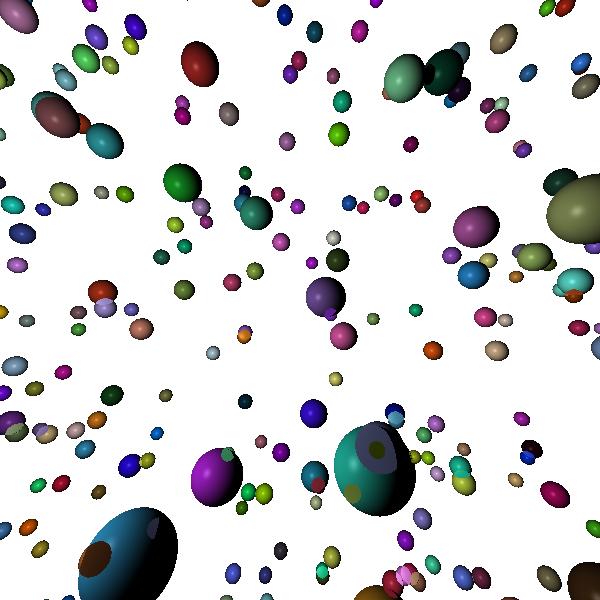
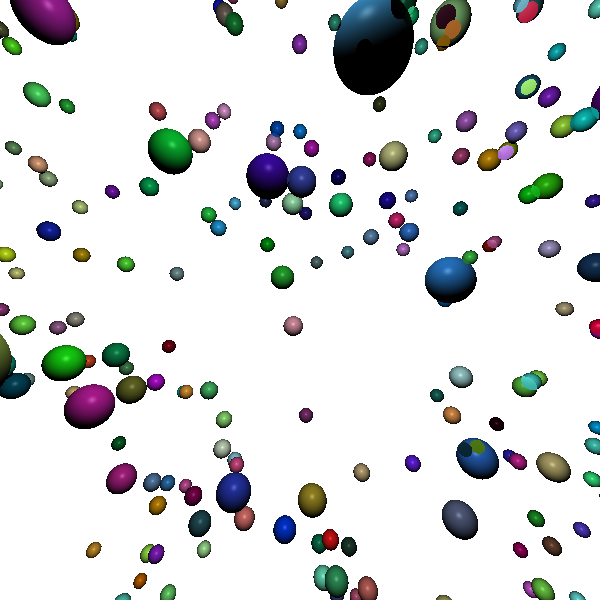
SAH done

diff --git a/AdvancedTechnologiesProject2/Src/BoundingVolumeHierachy.cpp b/AdvancedTechnologiesProject2/Src/BoundingVolumeHierachy.cpp
@@ -2,6 +2,7 @@
 
 #include <algorithm>
 #include <stack>
+#include <iostream>
 
 #include "BVHNode.h"
 #include "Geometry.h"
@@ -9,6 +10,7 @@
 
 void BVH::buildBVH(std::vector<std::shared_ptr<Geometry>> shapes)
 {
+	auto start = std::chrono::steady_clock::now();
 	m_shapes = shapes;
 
 	m_rootNode = std::make_shared<BVHNode>();
@@ -30,11 +32,17 @@ void BVH::buildBVH(std::vector<std::shared_ptr<Geometry>> shapes)
 	m_rootNode->setBounds(worldBox);
 	m_rootNode->createNode(0, m_shapes.size());
 	buildRecursiveBVH(0, m_shapes.size(), m_rootNode, 0, axis);
+
+	auto end = std::chrono::steady_clock::now();
+
+	std::chrono::duration<float> time = end - start;
+
+	std::cout << "Time to build BVH: " << time.count() << std::endl;
 }
 
 void BVH::buildRecursiveBVH(int leftIndex, int rightIndex, std::shared_ptr<BVHNode> node, int depth, Axis& axis)
 {
-	if ((rightIndex - leftIndex) <= 4 || depth >= 5)
+	if ((rightIndex - leftIndex) <= 4)
 	{
 		node->createLeaf(leftIndex, rightIndex);
 	}
@@ -101,8 +109,8 @@ void BVH::buildRecursiveBVH(int leftIndex, int rightIndex, std::shared_ptr<BVHNo
 		rightNode->setBounds(AABB(min, max));
 		rightNode->createNode(splitIndex, rightIndex);
 
-		m_rootNode->setLeft(leftNode);
-		m_rootNode->setRight(rightNode);
+		node->setLeft(leftNode);
+		node->setRight(rightNode);
 
 
 
@@ -113,6 +121,135 @@ void BVH::buildRecursiveBVH(int leftIndex, int rightIndex, std::shared_ptr<BVHNo
 
 void BVH::buildSAH(std::vector<std::shared_ptr<Geometry>> shapes)
 {
+	auto start = std::chrono::steady_clock::now();
+
+	m_shapes = shapes;
+	m_rootNode = std::make_shared<BVHNode>();
+
+	glm::vec3 min(0);
+	glm::vec3 max(0);
+
+	Axis axis = Axis::X;
+	ComparePrimitives cmp(static_cast<Axis>(axis));
+	std::sort(m_shapes.begin(), m_shapes.end(), cmp);
+
+	for (auto& obj : shapes)
+	{
+		min = glm::min(obj->getBox().getMin(), min);
+		max = glm::max(obj->getBox().getMax(), max);
+	}
+
+	AABB worldBox(min, max);
+	m_rootNode->setBounds(worldBox);
+	m_rootNode->createNode(0, m_shapes.size());
+	buildRecursiveSAH(0, m_shapes.size(), m_rootNode, 0, axis);
+
+
+	auto end = std::chrono::steady_clock::now();
+
+	std::chrono::duration<float> time = end - start;
+
+	std::cout << "Time to build SAH: " << time.count() << std::endl;
+}
+
+void BVH::buildRecursiveSAH(int leftIndex, int rightIndex, std::shared_ptr<BVHNode> node, int depth, Axis& axis)
+{
+	if ((rightIndex - leftIndex) <= 4)
+	{
+		node->createLeaf(leftIndex, rightIndex);
+	}
+	else
+	{
+		float pSA = node->getBounds().getSurfaceArea();
+		float pCI = node->getNumberOfObjects() * pSA * 1.0f;
+
+		float ci;
+
+		int splitIndex = 0;
+
+		auto leftNode = std::make_shared<BVHNode>();
+		AABB leftBounds;
+		auto rightNode = std::make_shared<BVHNode>();
+		AABB rightBounds;
+
+		Axis axis = Axis::X;
+
+		float cost = 0.0f;
+
+		do
+		{
+			int rNumberOfObj = 0;
+			int lNumberOfObj = 0;
+
+			glm::vec3 lmin;
+			glm::vec3 lmax;
+			glm::vec3 rmin;
+			glm::vec3 rmax;
+
+			ComparePrimitives cmp(static_cast<Axis>(axis));
+
+			std::sort(m_shapes.begin() + leftIndex, m_shapes.begin() + splitIndex, cmp);
+			for (int i = leftIndex; i < splitIndex; i++)
+			{
+				lmin = glm::min(m_shapes[i]->getBox().getMin(), lmin);
+				lmax = glm::max(m_shapes[i]->getBox().getMax(), lmax);
+				lNumberOfObj++;
+			}
+
+			std::sort(m_shapes.begin() + splitIndex, m_shapes.begin() + rightIndex, cmp);
+			for (int i = splitIndex; i < rightIndex; i++)
+			{
+				rmin = glm::min(m_shapes[splitIndex + i]->getBox().getMin(), lmin);
+				rmax = glm::max(m_shapes[splitIndex + i]->getBox().getMax(), lmax);
+				rNumberOfObj++;
+			}
+
+			AABB leftBox(lmin, lmax);
+			AABB rightBox(rmin, rmax);
+
+			cost = calculateCost(1.0f, 2.0f, lNumberOfObj, rNumberOfObj,  
+								 leftBox.getSurfaceArea(), rightBox.getSurfaceArea(), pSA);
+			
+			if (cost > pCI)
+			{
+				leftBounds = leftBox;
+				rightBounds = rightBox;
+			}
+			else
+			{
+				splitIndex++;
+			}
+		} while (cost > pCI);
+		
+		switch (axis)
+		{
+		case Axis::X:
+			axis = Axis::Y;
+			break;
+		case Axis::Y:
+			axis = Axis::Z;
+			break;
+		case Axis::Z:
+			axis = Axis::X;
+			break;
+		}
+
+		leftNode->createNode(leftIndex, splitIndex);
+		leftNode->setBounds(leftBounds);
+		rightNode->createNode(splitIndex, rightIndex);
+		rightNode->setBounds(rightBounds);
+		
+		node->setRight(rightNode);
+		node->setLeft(leftNode);
+
+		buildRecursiveSAH(leftIndex, splitIndex, leftNode, depth + 1, axis);
+		buildRecursiveSAH(leftIndex, splitIndex, leftNode, depth + 1, axis);
+	}
+}
+
+const float & BVH::calculateCost(const float & ct, const float & ci, const int & nl, const int & nr, const float & saL, const float & saR, const float & saP)
+{
+	return ct + ((saL / saP) * nl * ci) + ((saR / saP)* nr * ci);
 }
 
 bool BVH::checkIntersection(Ray * ray, std::shared_ptr<Geometry>& hitObj, std::uint64_t & index, glm::vec2 & uv)

diff --git a/AdvancedTechnologiesProject2/Src/Image.cpp b/AdvancedTechnologiesProject2/Src/Image.cpp
@@ -20,18 +20,10 @@ Image::Image(Camera* camera, unsigned int sizeX, unsigned int sizeY)
 
 	m_pixels.reserve(m_imageData.m_size.x * m_imageData.m_size.y);
 
-	auto start = std::chrono::steady_clock::now();
-
 	for (int i = 0; i < m_imageData.m_size.x * m_imageData.m_size.y; i++)
 	{
 		m_pixels.push_back(std::make_shared<glm::vec4>(0.0f));
 	}
-
-	auto end = std::chrono::steady_clock::now();
-
-	std::chrono::duration<float> time = end - start;
-
-	std::cout << "Time to push back all pixels:" << time.count() << std::endl;
 
 	m_image = new sf::Image();
 	m_image.load()->create(m_imageData.m_size.x, m_imageData.m_size.y);
@@ -150,18 +142,16 @@ bool Image::createImage()
 {
 	auto start = std::chrono::steady_clock::now();
 
-	//Create image to render
-	std::vector<sf::Uint8> pixels;
+	////Create image to render
+	//std::vector<sf::Uint8> pixels;
 
-	for (auto& pixel : m_pixels)
-	{
-		pixels.emplace_back(sf::Uint8(glm::min(1.0f, pixel->r) * 255));
-		pixels.emplace_back(sf::Uint8(glm::min(1.0f, pixel->g) * 255));
-		pixels.emplace_back(sf::Uint8(glm::min(1.0f, pixel->b) * 255));
-		pixels.emplace_back(sf::Uint8(glm::min(1.0f, pixel->a) * 255));
-	}
-
-	m_image.load()->create(m_imageData.m_size.x, m_imageData.m_size.y, pixels.data());
+	//for (auto& pixel : m_pixels)
+	//{
+	//	pixels.emplace_back(sf::Uint8(glm::min(1.0f, pixel->r) * 255));
+	//	pixels.emplace_back(sf::Uint8(glm::min(1.0f, pixel->g) * 255));
+	//	pixels.emplace_back(sf::Uint8(glm::min(1.0f, pixel->b) * 255));
+	//	pixels.emplace_back(sf::Uint8(glm::min(1.0f, pixel->a) * 255));
+	//}
 
 	if (!m_texture.loadFromImage(*m_image.load()))
 	{
@@ -175,7 +165,7 @@ bool Image::createImage()
 
 	std::chrono::duration<float> time = end - start;
 
-	std::cout << "Time to create image:" << time.count() << std::endl;
+	//std::cout << "Time to create image:" << time.count() << std::endl;
 
 	return true;
 }

diff --git a/AdvancedTechnologiesProject2/Src/BoundingVolumeHierachy.h b/AdvancedTechnologiesProject2/Src/BoundingVolumeHierachy.h
@@ -27,11 +27,15 @@ public:
 	void buildRecursiveBVH(int leftIndex, int rightIndex, std::shared_ptr<BVHNode> node, int depth, Axis& axis);
 
 	void buildSAH(std::vector<std::shared_ptr<Geometry>> shapes);
+	void buildRecursiveSAH(int leftIndex, int rightIndex, std::shared_ptr<BVHNode> node, int depth, Axis& axis);
+
+
+	const float& calculateCost(const float& ct, const float& ci, const int& nl, const int& nr,
+							   const float& saL, const float& saR, const float& saP);
 
 	bool checkIntersection(Ray* ray, std::shared_ptr<Geometry>& hitObj, std::uint64_t& index, glm::vec2& uv);
 private:
 	std::vector<std::shared_ptr<Geometry>> m_shapes;
-	std::vector<std::shared_ptr<BVHNode>> m_nodes;
 
 	std::shared_ptr<BVHNode> m_rootNode;
 };

diff --git a/AdvancedTechnologiesProject2/Src/main.cpp b/AdvancedTechnologiesProject2/Src/main.cpp
@@ -30,7 +30,7 @@ int main()
 	std::uniform_real<float> y(-50, 50);
 	std::uniform_real<float> col(0, 1.0f);
 
-	for (int i = 0; i < 1000; i++)
+	for (int i = 0; i < 2000; i++)
 	{
 		auto sphere = std::make_shared<Sphere>(1.0f, glm::vec3(col(rng), col(rng), col(rng)),
 											   glm::vec3(x(rng), y(rng), z(rng)));
@@ -43,7 +43,7 @@ int main()
 	camera->setPos(glm::vec3(0.0f, 0.0f, 0.0f));
 
 	auto bvh = std::make_shared<BVH>();
-	bvh->build(shapes);
+	bvh->buildSAH(shapes);
 	
 	auto image = new Image(camera.get(), window->getSize().x, window->getSize().y);
 

diff --git a/AdvancedTechnologiesProject2/Src/AABB.cpp b/AdvancedTechnologiesProject2/Src/AABB.cpp
@@ -78,3 +78,12 @@ bool AABB::checkRayCollision(const Ray * ray, float & t) const
 
 	return true;
 }
+
+const float & AABB::getSurfaceArea() const
+{
+	float l = glm::abs(m_bounds[0].z - m_bounds[1].z);
+	float w = glm::abs(m_bounds[0].x - m_bounds[1].x);
+	float h = glm::abs(m_bounds[0].y - m_bounds[1].y);
+
+	return 2 * ((l * w) + (l * h) + (w * h));
+}

diff --git a/AdvancedTechnologiesProject2/Src/AABB.h b/AdvancedTechnologiesProject2/Src/AABB.h
@@ -18,6 +18,7 @@ public:
 
 	const glm::vec3& getMin() const { return m_bounds[0]; }
 	const glm::vec3& getMax() const { return m_bounds[1]; }
+	const float& getSurfaceArea() const;
 private: 
 	glm::vec3 m_bounds[2];
 };
